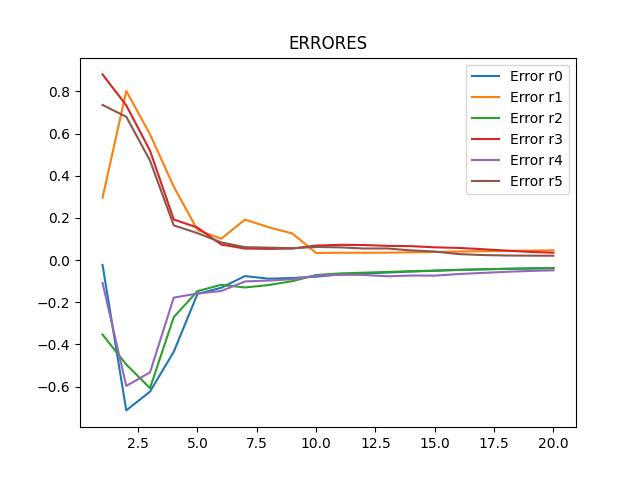
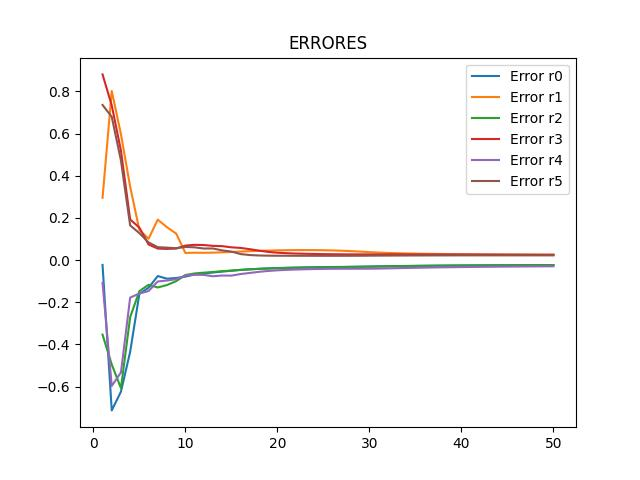
terminado

diff --git a/tp7/main.py b/tp7/main.py
@@ -16,6 +16,7 @@ def main():
     new_pesos = []
     lista_SR_final_neuron = []
     lista_errores = [ [] for i in range(len(table))]
+    lista_salidas_reales = [ [] for i in range(len(table))]
     list_error_counter = []
 
     contador = 0
@@ -45,8 +46,9 @@ def main():
 
             SR_final, epsilon, new_final_pesos, error = final_neuron.calculate_final_neuron(i)
             lista_errores[error_counter].append(error)
+            lista_salidas_reales[error_counter].append(SR_final)
             error_counter += 1
-    
+                
             lista_SR_final_neuron.append(SR_final)
             print(f"Salida Real: {SR_final}")
             list_outputs.clear()
@@ -73,10 +75,19 @@ def main():
             
     for i in range(len(lista_errores)):
         plt.plot(list_error_counter, lista_errores[i], label = f"Error r{i}")
-    
+
     plt.title("ERRORES")
     plt.legend()
     plt.savefig( "C:/Users/ivanf/OneDrive/Escritorio/Facultad/4Ano/int-artificial/tp7/" + "grafico_errores_tp7.jpg")
     plt.show()
+
+    for i in range(len(lista_salidas_reales)):
+        plt.plot(list_error_counter, lista_salidas_reales[i], label = f"Imagen {i}")
+    
+    plt.title("Reconocimiento")
+    plt.legend()
+    plt.savefig( "C:/Users/ivanf/OneDrive/Escritorio/Facultad/4Ano/int-artificial/tp7/" + "grafico_reconocimiento_tp7.jpg")
+    plt.show()
+    
 if __name__ == '__main__':
     main()
